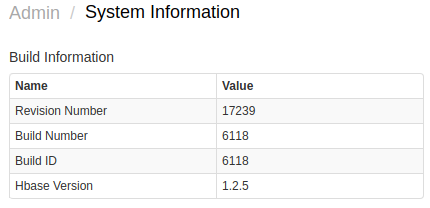
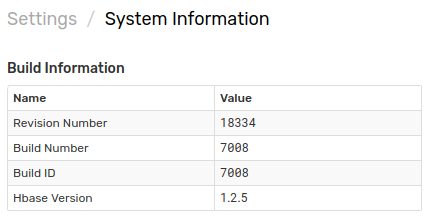
update-manual.md changes

diff --git a/administration/update-manual.md b/administration/update-manual.md
@@ -4,15 +4,14 @@
 
 ```sh
 su axibase
+cd /opt/atsd
 ```
 
 ## Download the Latest ATSD Distribution Files
 
-Select an archive to download based on **HBase Version** displayed on the **Settings > System Information** page.
-
 * [hbase 1.2.5](https://www.axibase.com/public/atsd_update_latest.htm)
 
-The archive will contain the latest ATSD release with the revision number included in the file name, for example `atsd_17239.tar.gz`.
+The archive will contain the latest ATSD release with the revision number included in the file name, for example `atsd.17239.tar.gz`.
 
 Copy the archive to the ATSD server.
 
@@ -27,8 +26,8 @@ tar xzf atsd.tar.gz
 ```sh
 cd target
 ls
-atsd-executable.jar
-atsd-hbase.jar
+atsd.<revision number>.jar
+atsd-hbase.<revision number>.jar
 ```
 
 ## Stop ATSD
@@ -37,16 +36,16 @@ atsd-hbase.jar
 /opt/atsd/bin/atsd-all.sh stop
 ```
 
-## Copy JAR Files
+## Replace JAR Files
 
 ```sh
 rm -rf /opt/atsd/hbase/lib/atsd*jar
-cp atsd-hbase.jar /opt/atsd/hbase/lib/atsd.hbase.jar
+mv atsd-hbase* /opt/atsd/hbase/lib/
 ```
 
 ```sh
 rm -rf /opt/atsd/atsd/bin/atsd*jar
-cp atsd-executable.jar /opt/atsd/atsd/bin/atsd.executable.jar
+mv atsd* /opt/atsd/atsd/bin/
 ```
 
 ## Start ATSD
@@ -63,7 +62,13 @@ It may take up to 5 minutes for the database to initialize.
 https://atsd_host:8443/
 ```
 
-* Open the **Admin: System Information** page.
+* Open the **Settings > System Information** page.
 * Verify that the Revision Number has been updated.
 
 ![](images/revision.png)
+
+## Remove the Archive
+
+```markdown
+rm /opt/atsd/atsd.tar.gz
+```
